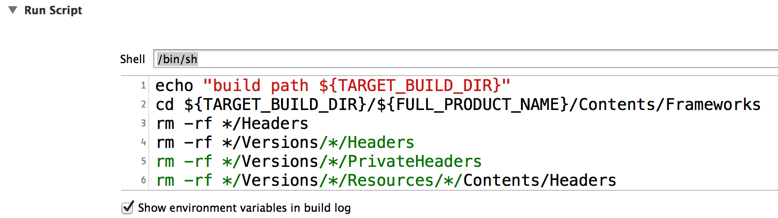
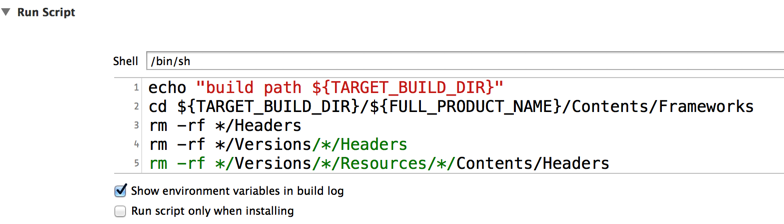
Site updated at 2013-11-12 14:58:43 UTC

diff --git a/blog/2013/11/05/mac-develop-add-framework/index.html b/blog/2013/11/05/mac-develop-add-framework/index.html
@@ -176,12 +176,10 @@ $(document).bind('DOMNodeInserted', function(event) {
 <span class='line-number'>3</span>
 <span class='line-number'>4</span>
 <span class='line-number'>5</span>
-<span class='line-number'>6</span>
 </pre></td><td class='code'><pre><code class='sh'><span class='line'><span class="nb">echo</span> <span class="s2">&quot;build path ${TARGET_BUILD_DIR}&quot;</span>
 </span><span class='line'><span class="nb">cd</span> <span class="k">${</span><span class="nv">TARGET_BUILD_DIR</span><span class="k">}</span>/<span class="k">${</span><span class="nv">FULL_PRODUCT_NAME</span><span class="k">}</span>/Contents/Frameworks
 </span><span class='line'>rm -rf */Headers
 </span><span class='line'>rm -rf */Versions/*/Headers
-</span><span class='line'>rm -rf */Versions/*/PrivateHeaders
 </span><span class='line'>rm -rf */Versions/*/Resources/*/Contents/Headers
 </span></code></pre></td></tr></table></div></figure>
 
